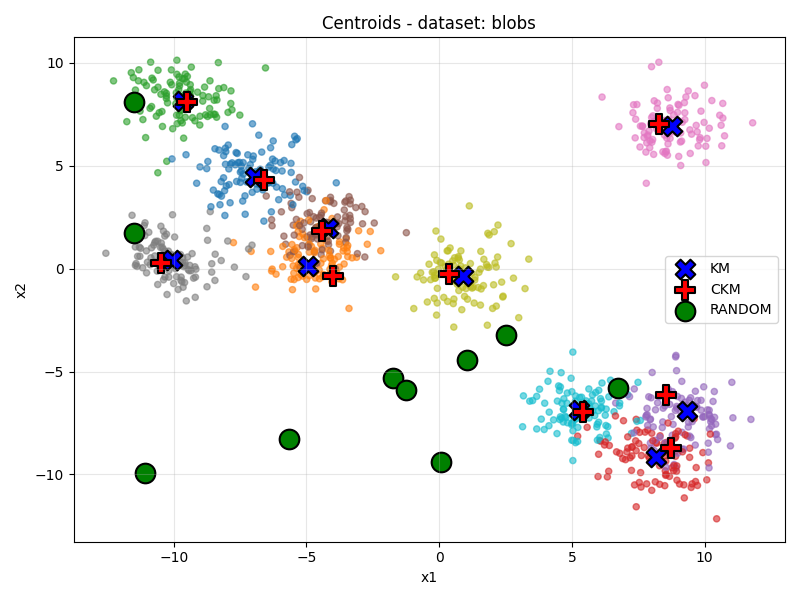
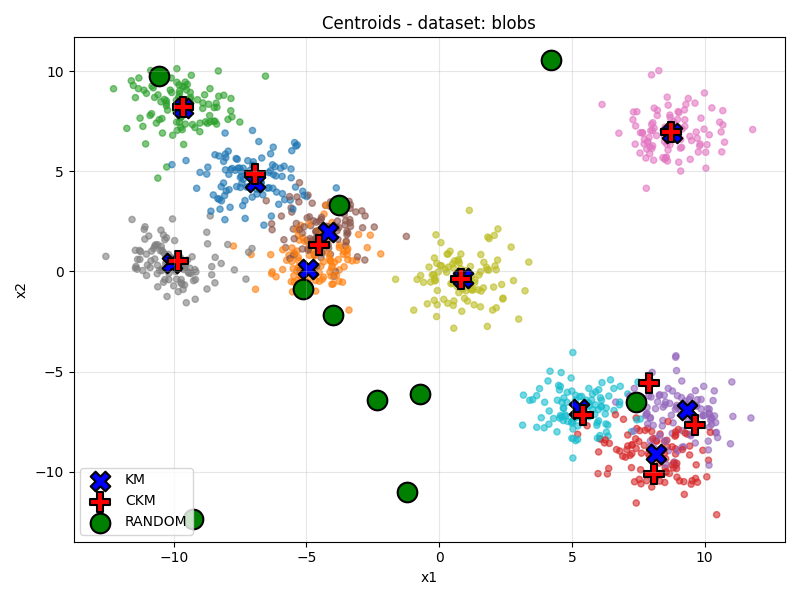
omega frequencies #TODO comments

diff --git a/clustering/ckm.py b/clustering/ckm.py
@@ -2,7 +2,6 @@ import numpy as np
 from scipy.optimize import lsq_linear, minimize
 from scipy.optimize._optimize import OptimizeResult
 from tqdm import tqdm
-from functools import cached_property
 from enum import Enum
 from typing import Callable
 import inspect
@@ -337,7 +336,6 @@ class CKM:
         - seed: int | float = The seed for the runs.
         - history: History = The history parameter.
         - init_centroids: InitCentroids = The initialisation of centroids parameter.
-        - init_Omega: InitOmega = The initialisation of omegas parameter.
         - Omega: np.ndarray[float] = The frequency matrix.
         - centroids: np.ndarray[float] = The centroids matrix.
         - all_centroids: list[np.ndarray[float]] | None = The list of all centroids matrices through the optimisation.
@@ -347,7 +345,7 @@ class CKM:
         - predict: Callable[[np.ndarray[float]], np.ndarray[int]] = Assign at each data point its cluster.
     """
 
-    def __init__(self, K: int, m: int, lower: float, upper: float, seed: int | float = 12, iters: int = 1, metric: Callable[[np.ndarray[float], np.ndarray[int]], float] = silhouette_score, history: History = History.OFF, init_centroids: InitCentroids = InitCentroids.UNIFORM, init_Omega: InitOmega = InitOmega.NORMAL) -> None:
+    def __init__(self, K: int, m: int, lower: float, upper: float, seed: int | float = 12, iters: int = 1, metric: Callable[[np.ndarray[float], np.ndarray[int]], float] = silhouette_score, history: History = History.OFF, init_centroids: InitCentroids = InitCentroids.UNIFORM) -> None:
         """
         Defines the properties of the algorithm.
 
@@ -361,7 +359,6 @@ class CKM:
             - (optional) metric: Callable[[np.ndarray[float], np.ndarray[int]], float] = Metric to maximize, will be used to assess the best clustering.
             - (optional) history: History = The parameter for the clinitialisation.
             - (optional) init_centroids: InitCentroids = The parameter for the clusters initialisation.            
-            - (optional) init_Omega: InitOmega = The parameter for the omegas the initialisation.            
 
         Returns:
             - (always) None.
@@ -384,7 +381,6 @@ class CKM:
         self._metric: Callable[[np.ndarray[float], np.ndarray[int]], float] = metric
         self.history: History = history
         self.init_centroids: InitCentroids = init_centroids
-        self.init_Omega: InitOmega = init_Omega
         
         return self.__post_init__()
     
@@ -402,15 +398,13 @@ class CKM:
         assert isinstance(self._metric, Callable) and len(inspect.signature(self._metric).parameters) >= 2, ":param metric: must be a callable of at least 2 parameters."
         assert isinstance(self.history, History), ":param history: must be an enumeration of History."
         assert isinstance(self.init_centroids, InitCentroids), ":param init_centroids: must be an enumeration of InitCentroids."
-        assert isinstance(self.init_Omega, InitOmega), ":param init_Omega: must be an enumeration of InitOmega."
 
         if self.history.value == History.ON.value:  self._all_centroids: list[np.ndarray[float]] = []
 
         return None
     
 
-    @cached_property
-    def Omega(self) -> np.ndarray[float]:
+    def draw_Omega(self, X: np.ndarray[float], block: int, frac_m: int = 10, frac_n: int = 10, n_iters: int = 5) -> np.ndarray[float]:
         """
         Property which defines the frequency matrix.
 
@@ -424,9 +418,59 @@ class CKM:
             - dim(Omega) = (m, D)
         """
         np.random.seed(seed=self.seed)
-        if self.init_Omega.value == InitOmega.NORMAL.value: return np.random.normal(size=(self.m, self._D))
-        if self.init_Omega.value == InitOmega.UNIFORM.value: return np.random.uniform(low=self._lower, high=self._upper, size=(self.m, self._D))
-    
+
+        N, D = X.shape
+        
+        m0: int = self.m // frac_m
+        n0: int = N // frac_n
+
+        # Initialization
+        sigma = 1
+
+        for _ in range(n_iters):
+            
+            # Draw some frequencies adapted to the current σ^2
+            Omega: np.ndarray[float] = np.random.multivariate_normal(np.zeros(D), np.linalg.inv(sigma * np.identity(D)), size=m0)
+
+            # Compute the radius
+            rad: np.ndarray[float] = np.linalg.norm(Omega, axis=1)**2
+
+            # Sort the omegas according to their frequencies
+            Omega: np.ndarray[float] = Omega[(idx := np.argsort(rad))]
+            rad: np.ndarray[float] = rad[idx]
+
+            # Small empirical sketch
+            z: np.ndarray[complex] = Sk(Omega, X[np.random.choice(np.arange(N), size=(n0,), replace=False)])
+
+            # Find maximum peak in each block
+            J: np.ndarray[complex] = np.zeros(block)
+            R: np.ndarray[float] = np.zeros(block)
+            
+            for q in range(block):
+
+                idx: slice = slice(q * ((m0) // block), (q + 1) * ((m0) // block))
+
+                block_z: np.ndarray[complex] = z[idx]
+                block_r: np.ndarray[float] = rad[idx]
+
+                kmax: slice = np.argmax(np.abs(block_z))
+
+                # Construction of ê
+                J[q] = np.abs(block_z[kmax])
+
+                # Construction of R_jq
+                R[q] = block_r[kmax]
+            
+            # Find the optimal σ^2 by a lsq problem
+            sigma: float = minimize(
+                fun = lambda sigma: np.mean((J - np.exp(-0.5 * R * sigma))**2),
+                x0 = sigma,
+                bounds = [(0, None)],
+                method = "L-BFGS-B").x[0]
+        
+        Omega: np.ndarray[float] = np.random.multivariate_normal(np.zeros(D), np.linalg.inv(sigma * np.identity(D)), size=self.m)
+
+        return Omega
 
     @property
     def cluster_centers_(self) -> np.ndarray[float]:
@@ -503,10 +547,9 @@ class CKM:
         assert isinstance(X, np.ndarray) and np.issubdtype(X.dtype, np.floating) and X.size > 0, ":param X: has to be a non-empty-array of floating numbers."
 
         np.random.seed(seed=self.seed)
-        N: int = X.shape[0]
         self._D: int = X.shape[1]
 
-        Omega: np.ndarray[float] = self.Omega
+        Omega: np.ndarray[float] = self.draw_Omega(X=X, block=self._K)
 
         zhat: np.ndarray[complex] = Sk(X=X, Omega=Omega)
 

diff --git a/figs/figs_generation.py b/figs/figs_generation.py
@@ -12,7 +12,7 @@ from clustering import *
 
 
 SEED = 12
-EXP = 5
+EXP = 1
 np.random.seed(SEED)
 
 METRICS: dict[str: dict[str: dict[str: list[float]]]] = {
